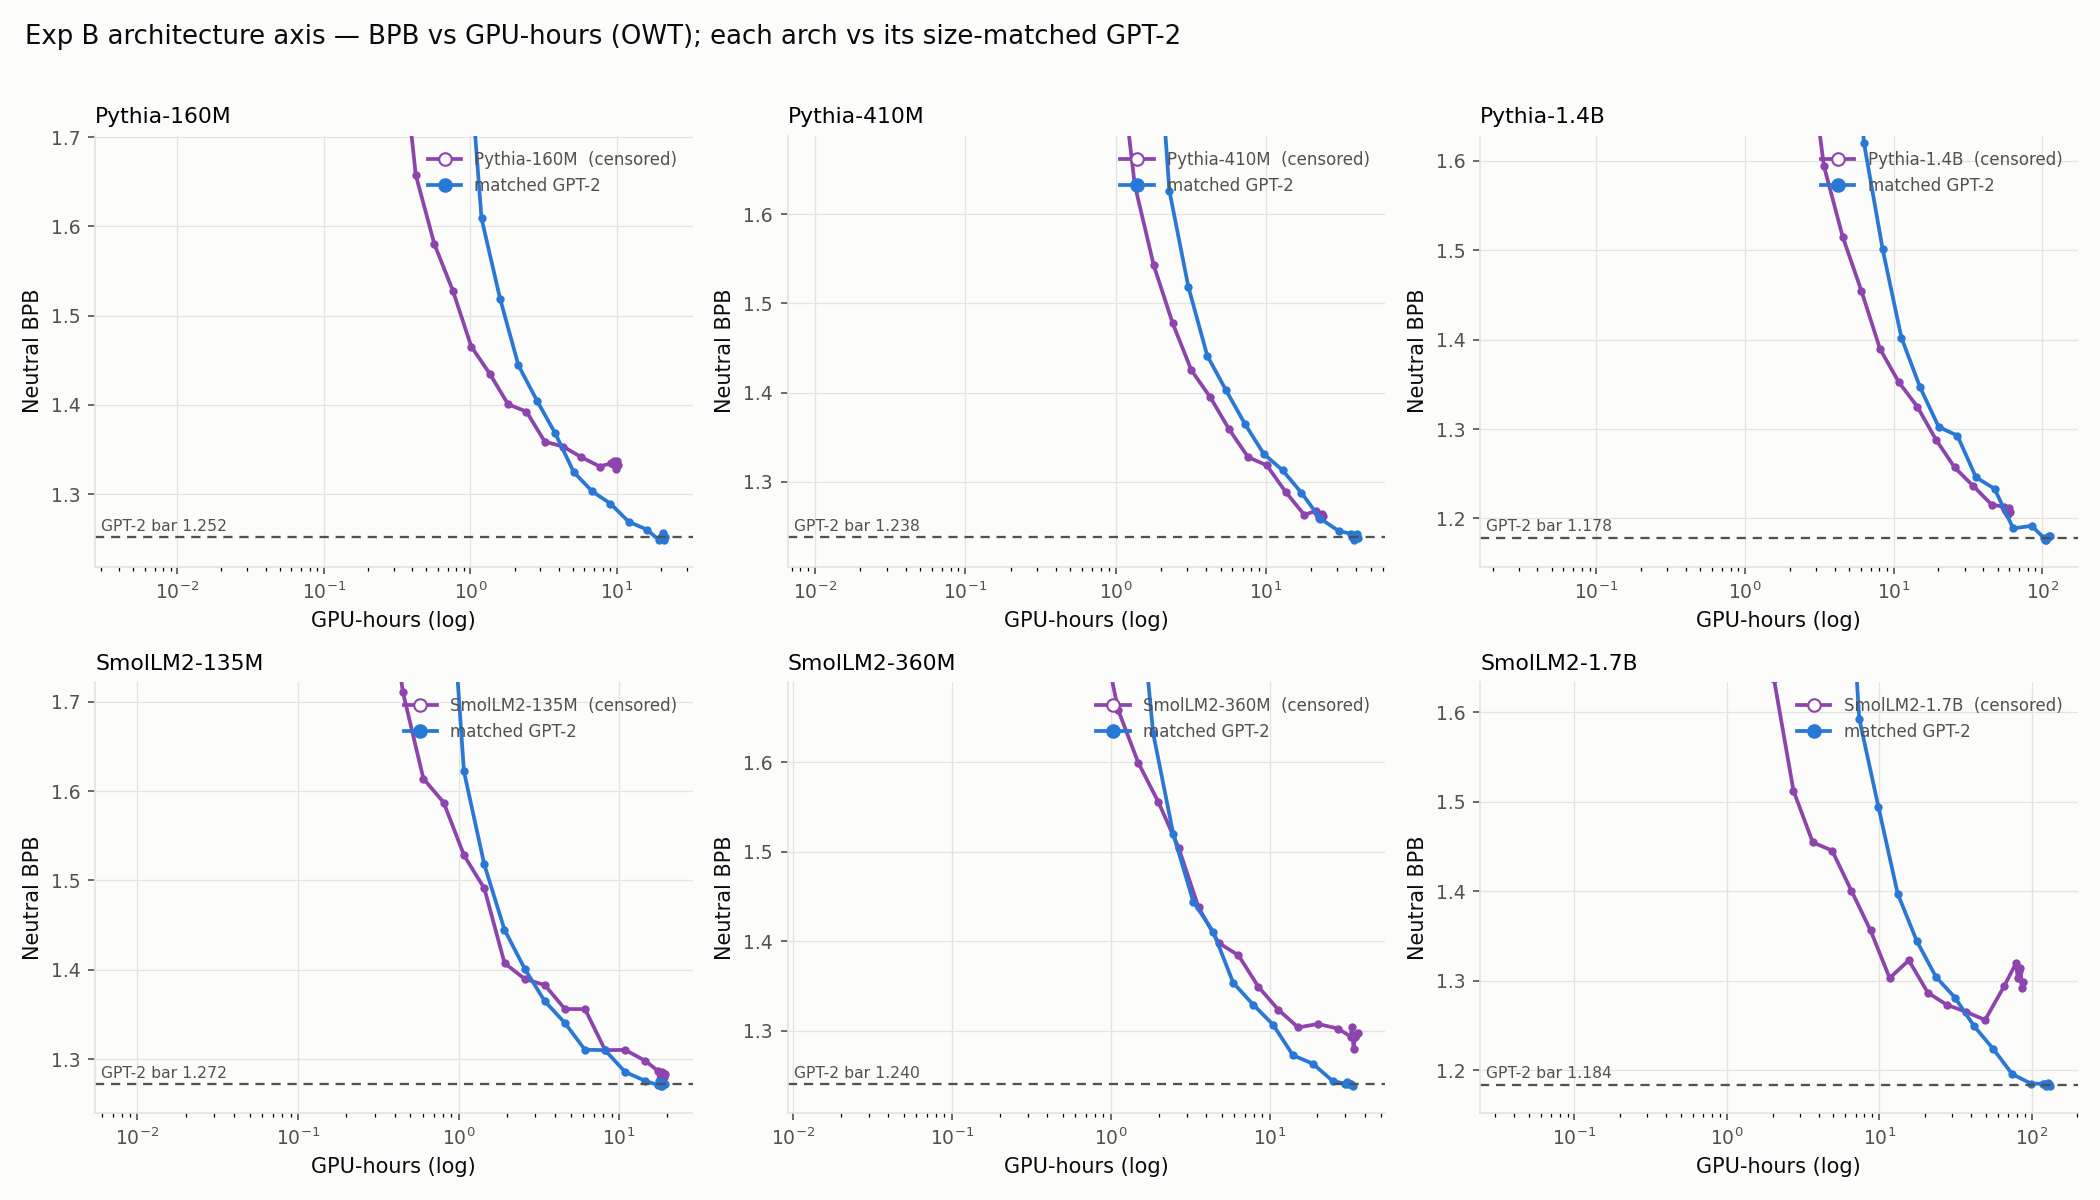
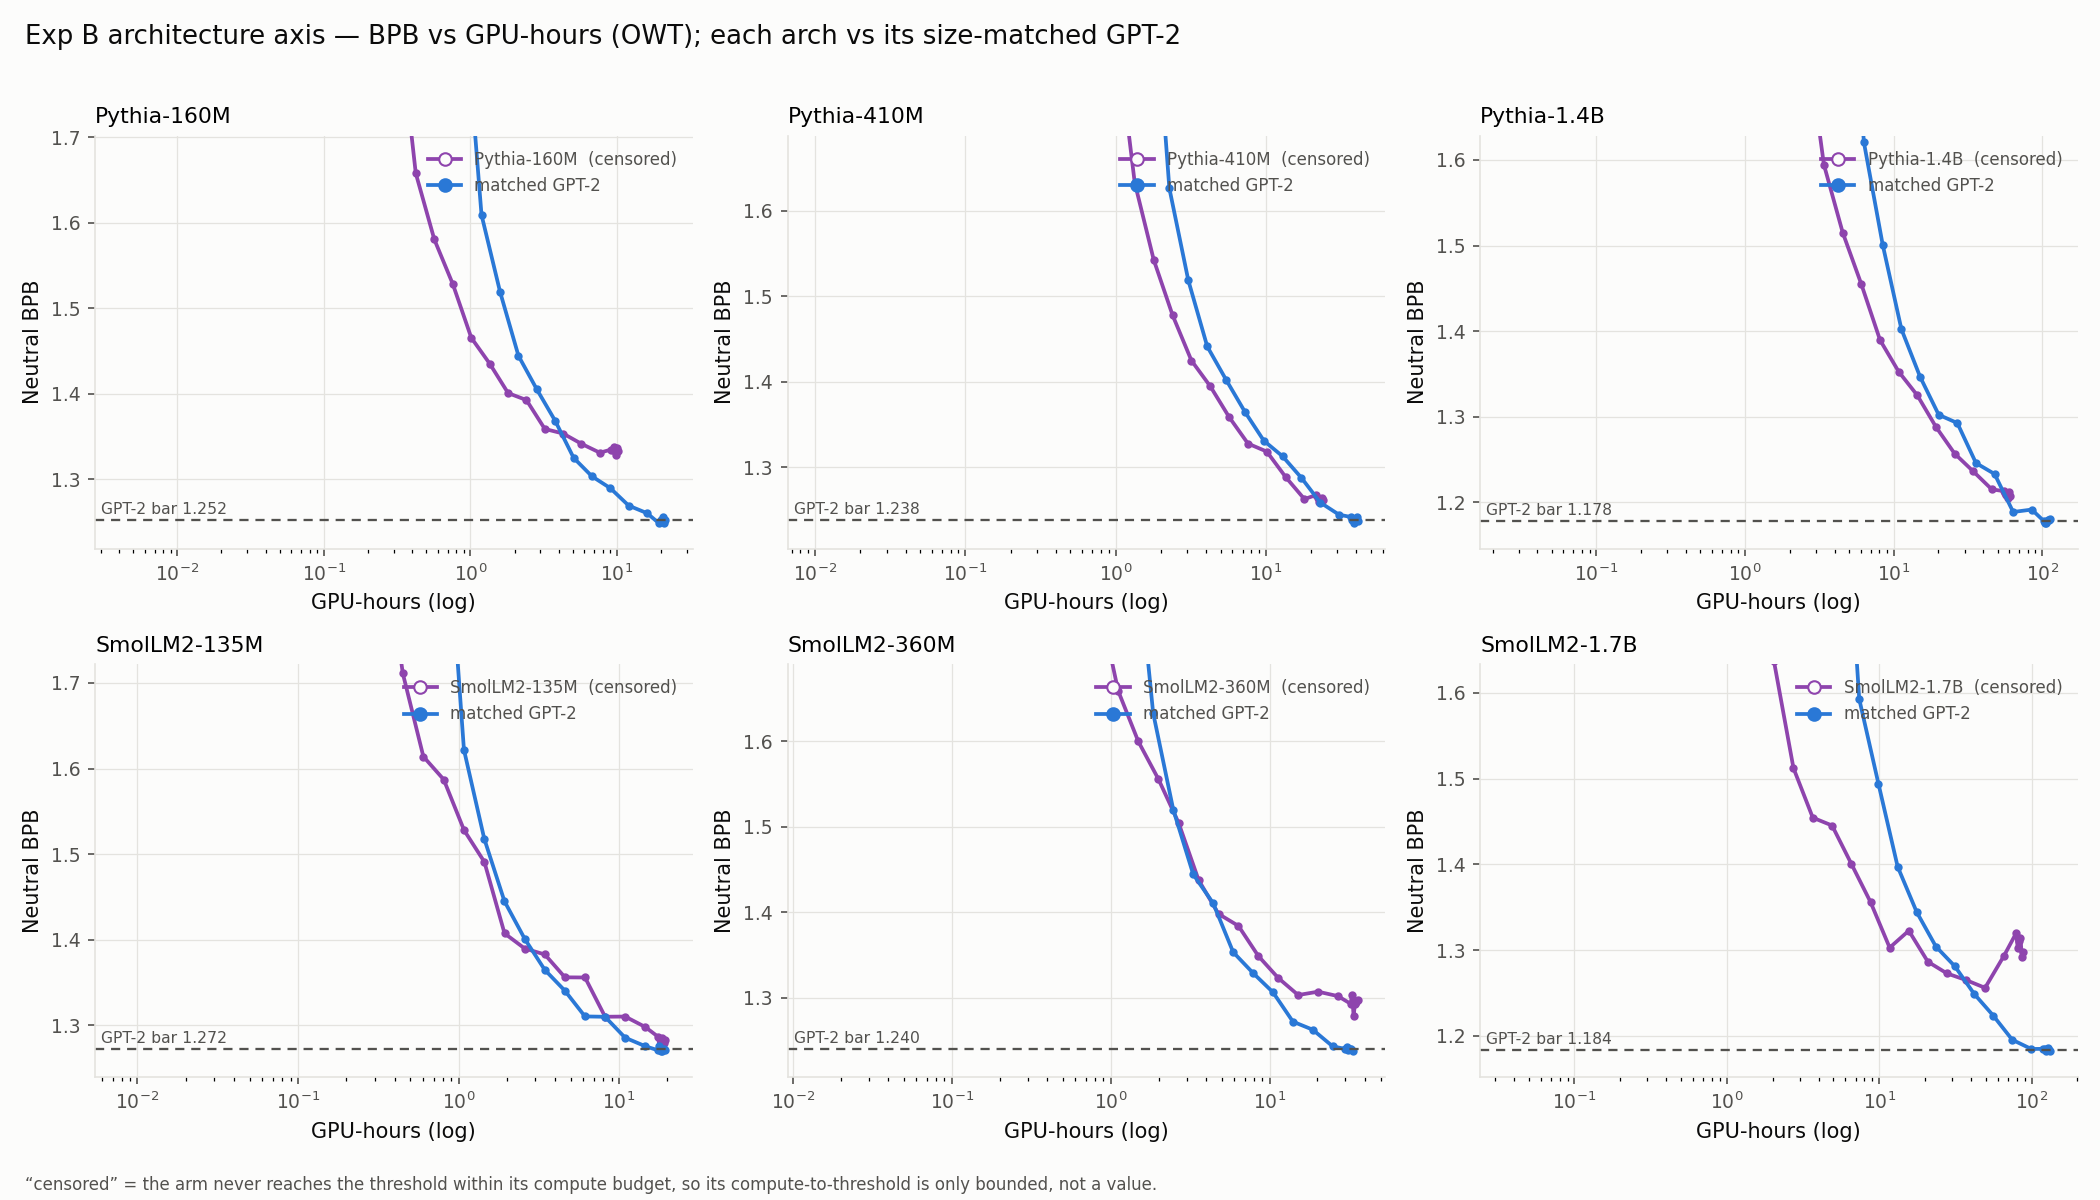
Address figure feedback: rebuild abs Exp B CORE by-task (error bars, single labeled GPT-2 line, clear sizes); add 'censored' gloss to training-curve figs; note 11-vs-6 task-set difference in report

diff --git a/analysis/plots.py b/analysis/plots.py
@@ -366,44 +366,61 @@ def core_expb_by_task(root: Path, out_path):
 
 
 def core_expb_by_task_abs(root: Path, out_path):
-    """Exp B CORE per task in ABSOLUTE accuracy (each candidate architecture vs its
-    size-matched GPT-2), directly comparable to Exp A's core_era_by_task and the 2x2
-    study's core_arms_by_task. One panel per task; x = model size; a candidate line +
-    its matched-GPT-2 line per lineage. Reads results/core_expb_summary.json."""
-    S = json.loads((root / "core_expb_summary.json").read_text())["pairs"]
-    PARAMS = {"pythia-160M": 162, "pythia-410M": 405, "pythia-1.4B": 1415,
-              "smollm2-135M": 135, "smollm2-360M": 362, "smollm2-1.7B": 1711}
-    LIN = {"pythia": ("Pythia", "#1baf7a"), "smollm2": ("SmolLM2", "#8e44ad")}
-    GPT = "#2a78d6"
+    """Exp B CORE per task in ABSOLUTE accuracy — three lines (matched GPT-2, Pythia,
+    SmolLM2) across model size, ±1 stderr. Comparable to Exp A's core_era_by_task and the
+    2x2 study's core_arms_by_task. Reads the raw lm-eval JSONs in results/core_expb/ (for
+    per-task accuracy AND stderr). GPT-2 is one baseline line across all six sizes; the two
+    lineages are overlaid at their own sizes. 11-task CORE subset (lambada valid here —
+    real logits — and more tasks clear the gate at these sizes than at the study's 124M)."""
+    RAW = root / "core_expb"
+
+    def load(name):
+        d = json.loads((RAW / f"{name}.json").read_text())
+        return d.get("results", d)
+
+    def acc_se(res, t):
+        v = res.get(t, {})
+        key = "acc_norm,none" if (t in ("arc_easy", "arc_challenge", "hellaswag",
+                                        "openbookqa") and "acc_norm,none" in v) else "acc,none"
+        se = "acc_norm_stderr,none" if "norm" in key else "acc_stderr,none"
+        return v.get(key), v.get(se)
+
+    GPT2 = {136: "gpt2-denom-b135", 161: "gpt2-denom-b160", 362: "gpt2-denom-b360",
+            405: "gpt2-denom-b410", 1415: "gpt2-denom-b1400", 1711: "gpt2-denom-b1700"}
+    PY = {162: "pythia-160M", 405: "pythia-410M", 1415: "pythia-1.4B"}
+    SM = {135: "smollm2-135M", 362: "smollm2-360M", 1711: "smollm2-1.7B"}
+    tracks = [("matched GPT-2", GPT2, "#2a78d6", "s", (0, (3, 2))),
+              ("Pythia (GPT-NeoX)", PY, "#1baf7a", "o", "-"),
+              ("SmolLM2 (Llama)", SM, "#8e44ad", "o", "-")]
+    loaded = {n: load(n) for grp in (GPT2, PY, SM) for n in grp.values()}
     tasks = ["arc_easy", "arc_challenge", "openbookqa", "hellaswag", "commonsense_qa",
              "boolq", "copa", "piqa", "winogrande", "xwinograd_en", "lambada_openai"]
     ncol = 4
     nrow = (len(tasks) + ncol - 1) // ncol
-    fig, axes = plt.subplots(nrow, ncol, figsize=(12.5, 2.5 * nrow), dpi=150, sharex=True)
+    fig, axes = plt.subplots(nrow, ncol, figsize=(13, 2.6 * nrow), dpi=150, sharex=True)
     axf = axes.ravel()
     for i, task in enumerate(tasks):
         ax = axf[i]
-        for lname, (label, col) in LIN.items():
-            pts = sorted(((PARAMS[k], v["per_task"].get(task, {})) for k, v in S.items()
-                          if k.startswith(lname)))
-            xs = [p for p, d in pts if d]
-            ax.plot(xs, [d["cand"] for p, d in pts if d], color=col, marker="o", ms=5,
-                    lw=1.6, label=label, zorder=3, markeredgecolor=SURFACE, markeredgewidth=0.8)
-            ax.plot(xs, [d["gpt2"] for p, d in pts if d], color=GPT, marker="s", ms=4,
-                    lw=1.2, ls=(0, (3, 2)), zorder=2, alpha=0.8,
-                    label="matched GPT-2" if lname == "pythia" else None)
-        ax.set_xscale("log"); ax.set_xticks([135, 400, 1500])
-        ax.set_xticklabels(["135M", "400M", "1.5B"], fontsize=7.5)
+        for label, grp, col, mk, ls in tracks:
+            sizes = sorted(grp)
+            ys = [acc_se(loaded[grp[s]], task)[0] for s in sizes]
+            es = [acc_se(loaded[grp[s]], task)[1] or 0 for s in sizes]
+            ax.errorbar(sizes, ys, yerr=es, color=col, marker=mk, ms=5, lw=1.5, ls=ls,
+                        capsize=2, elinewidth=0.9, label=label, zorder=3,
+                        markeredgecolor=SURFACE, markeredgewidth=0.7)
+        ax.set_xscale("log"); ax.set_xlim(110, 2100)
+        ax.set_xticks([150, 500, 1500])
+        ax.set_xticklabels(["0.15B", "0.5B", "1.5B"], fontsize=8)
         ax.xaxis.set_minor_formatter(matplotlib.ticker.NullFormatter())
         ax.set_title(task, fontsize=9.5, loc="left")
         _style(ax)
     for j in range(len(tasks), len(axf)):
         axf[j].axis("off")
-    axf[0].legend(frameon=False, fontsize=7.5, labelcolor=INK2, loc="best")
+    axf[0].legend(frameon=False, fontsize=8, labelcolor=INK2, loc="best")
     for r in range(nrow):
         axes[r, 0].set_ylabel("accuracy", fontsize=8.5)
-    fig.suptitle("Exp B — CORE accuracy per task: each architecture vs its matched GPT-2 (data = OWT)",
-                 fontsize=12.5, x=0.012, ha="left", color=INK)
+    fig.suptitle("Exp B — CORE accuracy per task (11-task subset, ±1 stderr): each architecture vs GPT-2, data = OWT",
+                 fontsize=12, x=0.012, ha="left", color=INK)
     fig.tight_layout(rect=(0, 0, 1, 0.95))
     fig.savefig(out_path, facecolor=SURFACE); plt.close(fig)
 

diff --git a/analysis/plot_training_curves_ab.py b/analysis/plot_training_curves_ab.py
@@ -85,7 +85,10 @@ def expb_arch():
                THR[tk], f"GPT-2 bar {THR[tk]:.3f}", title)
     fig.suptitle("Exp B architecture axis — BPB vs GPU-hours (OWT); each arch vs its size-matched GPT-2",
                  fontsize=12.5, x=0.012, ha="left", color=INK)
-    fig.tight_layout(rect=(0, 0, 1, 0.97))
+    fig.text(0.012, 0.005, "“censored” = the arm never reaches the threshold within its compute "
+             "budget, so its compute-to-threshold is only bounded, not a value.",
+             fontsize=8, color=INK2, va="bottom")
+    fig.tight_layout(rect=(0, 0.03, 1, 0.97))
     fig.savefig(RES / "expb_arch_curves.png", facecolor=SURFACE); plt.close(fig)
     print("wrote", RES / "expb_arch_curves.png")
 
@@ -111,7 +114,10 @@ def expb_data():
     ], thr_sm, f"GPT-2-OWT bar {thr_sm:.3f}", "SmolLM2-135M across data corpora")
     fig.suptitle("Exp B data axis — BPB vs GPU-hours; better data (RefinedWeb/DCLM) crosses the GPT-2-OWT bar",
                  fontsize=12, x=0.012, ha="left", color=INK)
-    fig.tight_layout(rect=(0, 0, 1, 0.96))
+    fig.text(0.012, 0.005, "“censored” = training on that corpus never reaches the GPT-2-OWT bar within "
+             "the compute budget (that data can't match GPT-2-on-OWT at this compute).",
+             fontsize=8, color=INK2, va="bottom")
+    fig.tight_layout(rect=(0, 0.03, 1, 0.96))
     fig.savefig(RES / "expb_data_curves.png", facecolor=SURFACE); plt.close(fig)
     print("wrote", RES / "expb_data_curves.png")
 

diff --git a/analysis/make_report.py b/analysis/make_report.py
@@ -345,9 +345,12 @@ def _expb_core_section(root):
         out += ["![Exp B CORE gap vs matched GPT-2, by scale](core_expb_delta.png)", ""]
     if (root / "core_expb_by_task.png").exists():
         out += ["Per-task breakdown (each task is noisy at limit=500 — read the "
-                "consistency across tasks, not any single panel). First as the gap vs "
-                "matched GPT-2, then in absolute accuracy (comparable to the Exp A / 2×2 "
-                "CORE figures):", "",
+                "consistency across tasks, not any single panel). Exp B shows all 11 "
+                "evaluated CORE-subset tasks (lambada is valid here — these are real-logits "
+                "HF models — and at 135M–1.7B more tasks clear the validity gate than at the "
+                "study's 124M, where the CORE figures gate down to 6). First as the gap vs "
+                "matched GPT-2, then in absolute accuracy (same 3-line format as the Exp A / "
+                "2×2 CORE figures):", "",
                 "![Exp B CORE gap per task](core_expb_by_task.png)", ""]
     if (root / "core_expb_by_task_abs.png").exists():
         out += ["![Exp B CORE absolute accuracy per task](core_expb_by_task_abs.png)", ""]
